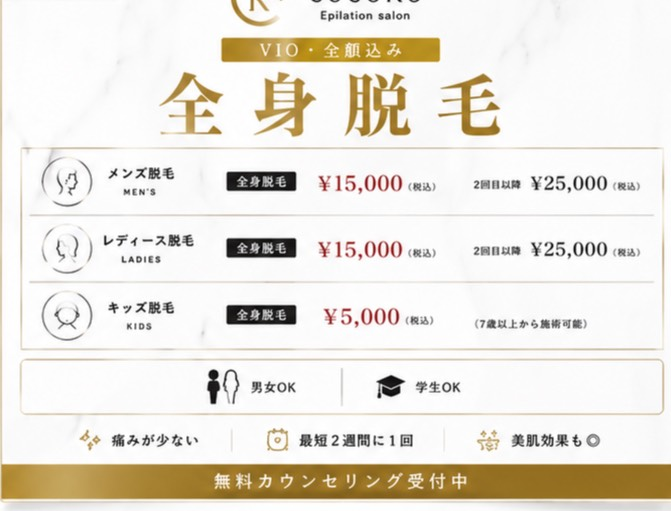
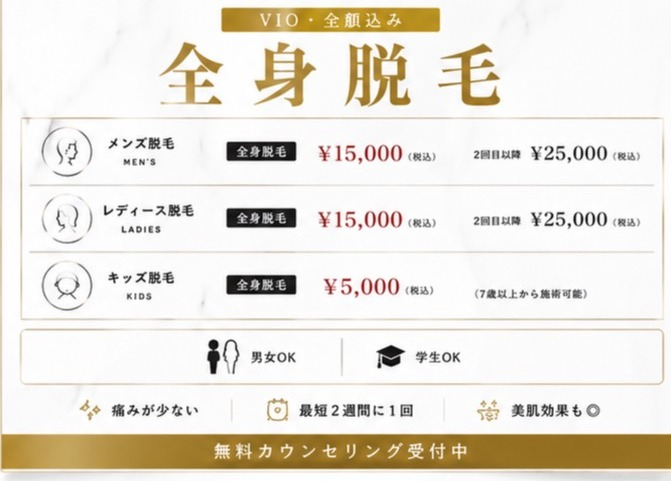
キャンペーン画像の切れたロゴ部分をトリミング
元画像の上端でcocoRoロゴが半分欠けた状態だったため、上30pxを
トリミングし「VIO・全顔込み」バッジから始まる形に修正。
img要素のwidth/height属性も実寸(671x481)に合わせた。

diff --git a/index.html b/index.html
@@ -282,7 +282,7 @@
           <p>キャンペーン画像を中心に、料金と対象部位を分かりやすくご案内します。</p>
         </div>
         <figure class="campaign-visual fade-up">
-          <img src="campaign-open.jpg" alt="9月1日オープンキャンペーン 全身脱毛 初回12,500円" loading="lazy" width="640" height="480" />
+          <img src="campaign-open.jpg" alt="9月1日オープンキャンペーン 全身脱毛 初回12,500円" loading="lazy" width="671" height="481" />
         </figure>
         <div class="menu-grid">
           <article class="menu-card fade-up">
